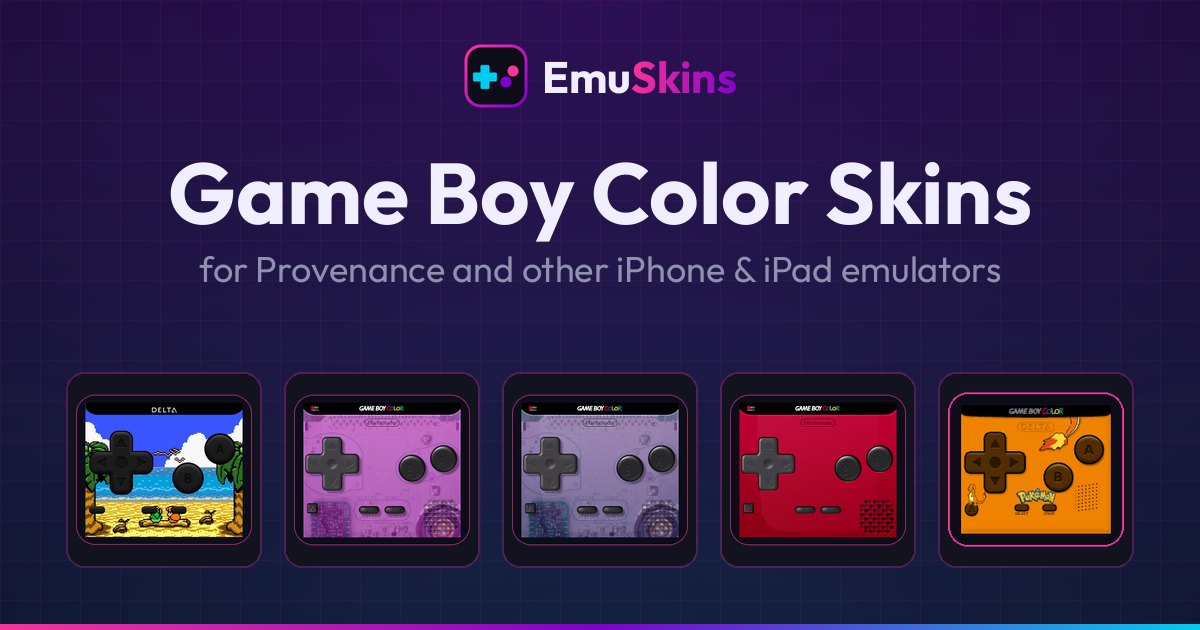
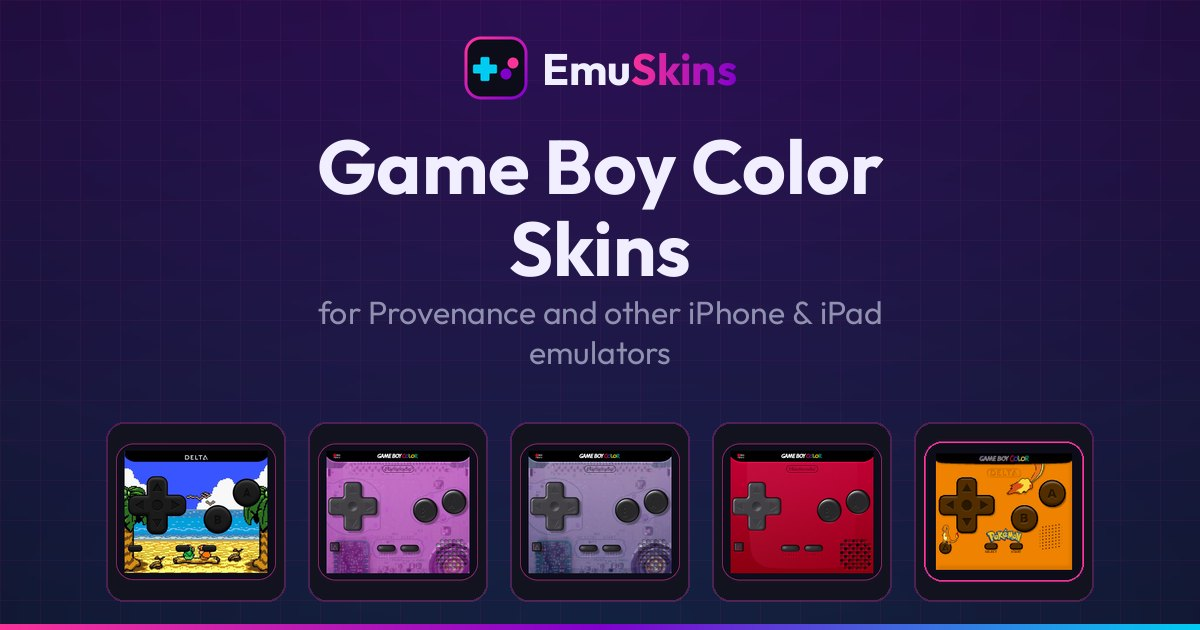
Share cards: keep the text inside the square-crop safe area
The script said the title sat inside the centre 630x630, but it was
fitted to 1040px: "Free Controller Skins" ran from about x=190 to
x=1010, so WhatsApp/iMessage square crops (x=285-915) cut both ends.
Title and subtitle now wrap to SAFE_WIDTH (590px), up to two lines
each, and "iPhone & iPad" never splits. All 19 cards regenerated;
a test checks the wrapped text against SAFE_WIDTH.

diff --git a/scripts/generate_share_cards.py b/scripts/generate_share_cards.py
@@ -8,7 +8,7 @@ Generate 1200x630 social share cards for the EmuSkins site.
 Every card is one image that has to survive every platform's crop: Facebook,
 X, LinkedIn and Discord show it at 1.91:1, WhatsApp and some iMessage layouts
 crop it square. So the logo and title sit inside the centre 630x630, and the
-thumbnail row underneath can lose its edges.
+thumbnail row underneath can lose its edges. Text is wrapped to SAFE_WIDTH.
 
 No counts are drawn into the images. They change on every catalog rebuild and
 would rewrite every card; they go in og:description instead. A card is only
@@ -42,6 +42,10 @@ WIDTH, HEIGHT = 1200, 630
 MAX_BYTES = 300 * 1024
 MIN_SYSTEM_SKINS = 3  # same threshold as generate_system_pages.py
 THUMBS_PER_CARD = 5
+THUMB_SIZE = 180
+# Text stays inside this width, centred, so a 630x630 centre crop keeps it.
+SAFE_WIDTH = 590
+IPHONE_IPAD = "iPhone\u00a0&\u00a0iPad"  # never split across lines
 USER_AGENT = "EmuSkins-ShareCards/1.0 (+https://emuskins.com)"
 
 BG = (11, 11, 24)
@@ -98,13 +102,30 @@ def background():
     return img
 
 
-def fit_font(text, name, size, max_width, min_size):
-    while size > min_size:
+def wrap(text, f, max_width):
+    """Greedy word wrap on plain spaces (NBSP keeps a phrase together); a single
+    word wider than max_width gets a line of its own."""
+    lines, line = [], ""
+    for word in text.split(" "):
+        trial = f"{line} {word}".strip()
+        if line and f.getlength(trial) > max_width:
+            lines.append(line)
+            line = word
+        else:
+            line = trial
+    return lines + ([line] if line else [])
+
+
+def fit_lines(text, name, size, min_size, max_lines=2, max_width=None):
+    """The largest size (stepping down by 2) at which `text` wraps into at most
+    `max_lines` lines that all fit `max_width`; returns (font, lines)."""
+    max_width = max_width or SAFE_WIDTH
+    while True:
         f = font(name, size)
-        if f.getlength(text) <= max_width:
-            return f
+        lines = wrap(text, f, max_width)
+        if size <= min_size or (len(lines) <= max_lines and all(f.getlength(l) <= max_width for l in lines)):
+            return f, lines
         size -= 2
-    return font(name, min_size)
 
 
 def draw_centered(img, text, f, y, fill):
@@ -143,7 +164,7 @@ def thumb_tile(thumb, size):
     return tile
 
 
-def draw_thumb_row(img, thumbs, y, size=196, gap=22):
+def draw_thumb_row(img, thumbs, y, size=THUMB_SIZE, gap=22):
     if not thumbs:
         return
     total = len(thumbs) * size + (len(thumbs) - 1) * gap
@@ -200,15 +221,24 @@ def pick_thumbs(skins, limit, one_per_system=False, prefer_ids=()):
 
 
 def render_card(title, subtitle, thumbs, footnote=None):
+    """Wordmark, title, subtitle and footnote all fit SAFE_WIDTH, so a centre
+    square crop keeps them whole; the thumbnail row below may lose its edges."""
     img = background()
-    draw_wordmark(img, 44)
-    title_font = fit_font(title, "Outfit-Bold.ttf", 86, 1040, 52)
-    draw_centered(img, title, title_font, 138, TEXT)
-    sub_font = fit_font(subtitle, "Outfit-Regular.ttf", 36, 1040, 24)
-    draw_centered(img, subtitle, sub_font, 246, MUTED)
+    draw_wordmark(img, 36)
+    y = 118
+    title_font, title_lines = fit_lines(title, "Outfit-Bold.ttf", 76, 52)
+    for line in title_lines:
+        draw_centered(img, line, title_font, y, TEXT)
+        y += round(title_font.size * 1.08)
+    y += 10
+    sub_font, sub_lines = fit_lines(subtitle, "Outfit-Regular.ttf", 32, 22)
+    for line in sub_lines:
+        draw_centered(img, line, sub_font, y, MUTED)
+        y += round(sub_font.size * 1.25)
     if footnote:
-        draw_centered(img, footnote, font("Outfit-Regular.ttf", 26), 296, MUTED)
-    draw_thumb_row(img, thumbs, 372)
+        note_font, note_lines = fit_lines(footnote, "Outfit-Regular.ttf", 24, 18, max_lines=1)
+        draw_centered(img, note_lines[0], note_font, y + 4, MUTED)
+    draw_thumb_row(img, thumbs, HEIGHT - 6 - 22 - THUMB_SIZE)
     return img
 
 
@@ -228,7 +258,7 @@ def save_card(img, path):
 
 def system_subtitle(code):
     apps = FAMILY_APPS_BY_SYSTEM.get(code, ["Provenance"])
-    return "for " + ", ".join(apps) + " and other iPhone & iPad emulators"
+    return "for " + ", ".join(apps) + " and other " + IPHONE_IPAD + " emulators"
 
 
 def main():
@@ -240,7 +270,7 @@ def main():
 
     home = render_card(
         "Free Controller Skins",
-        "for iPhone & iPad emulators",
+        "for " + IPHONE_IPAD + " emulators",
         pick_thumbs(skins, THUMBS_PER_CARD, one_per_system=True, prefer_ids=featured),
         footnote="Provenance · iCube · iFly · Delta · Manic EMU",
     )

diff --git a/tests/test_share_meta.py b/tests/test_share_meta.py
@@ -149,3 +149,17 @@ def test_every_system_card_is_valid():
 def test_404_is_noindex():
     html = (ROOT / "docs" / "404.html").read_text(encoding="utf-8")
     assert re.search(r'<meta name="robots" content="noindex">', html)
+
+
+@pytest.mark.parametrize("text,face,size,min_size", [
+    ("Free Controller Skins", "Outfit-Bold.ttf", 76, 52),
+    ("Sega Master System Skins", "Outfit-Bold.ttf", 76, 52),
+    ("for iCube, Provenance and other iPhone\u00a0&\u00a0iPad emulators", "Outfit-Regular.ttf", 32, 22),
+])
+def test_card_text_fits_square_crop(text, face, size, min_size):
+    """Same fonts and sizes render_card uses for the title and subtitle."""
+    from generate_share_cards import SAFE_WIDTH, fit_lines
+    f, lines = fit_lines(text, face, size, min_size)
+    assert len(lines) <= 2
+    assert all(f.getlength(line) <= SAFE_WIDTH for line in lines)
+    assert SAFE_WIDTH <= 630
